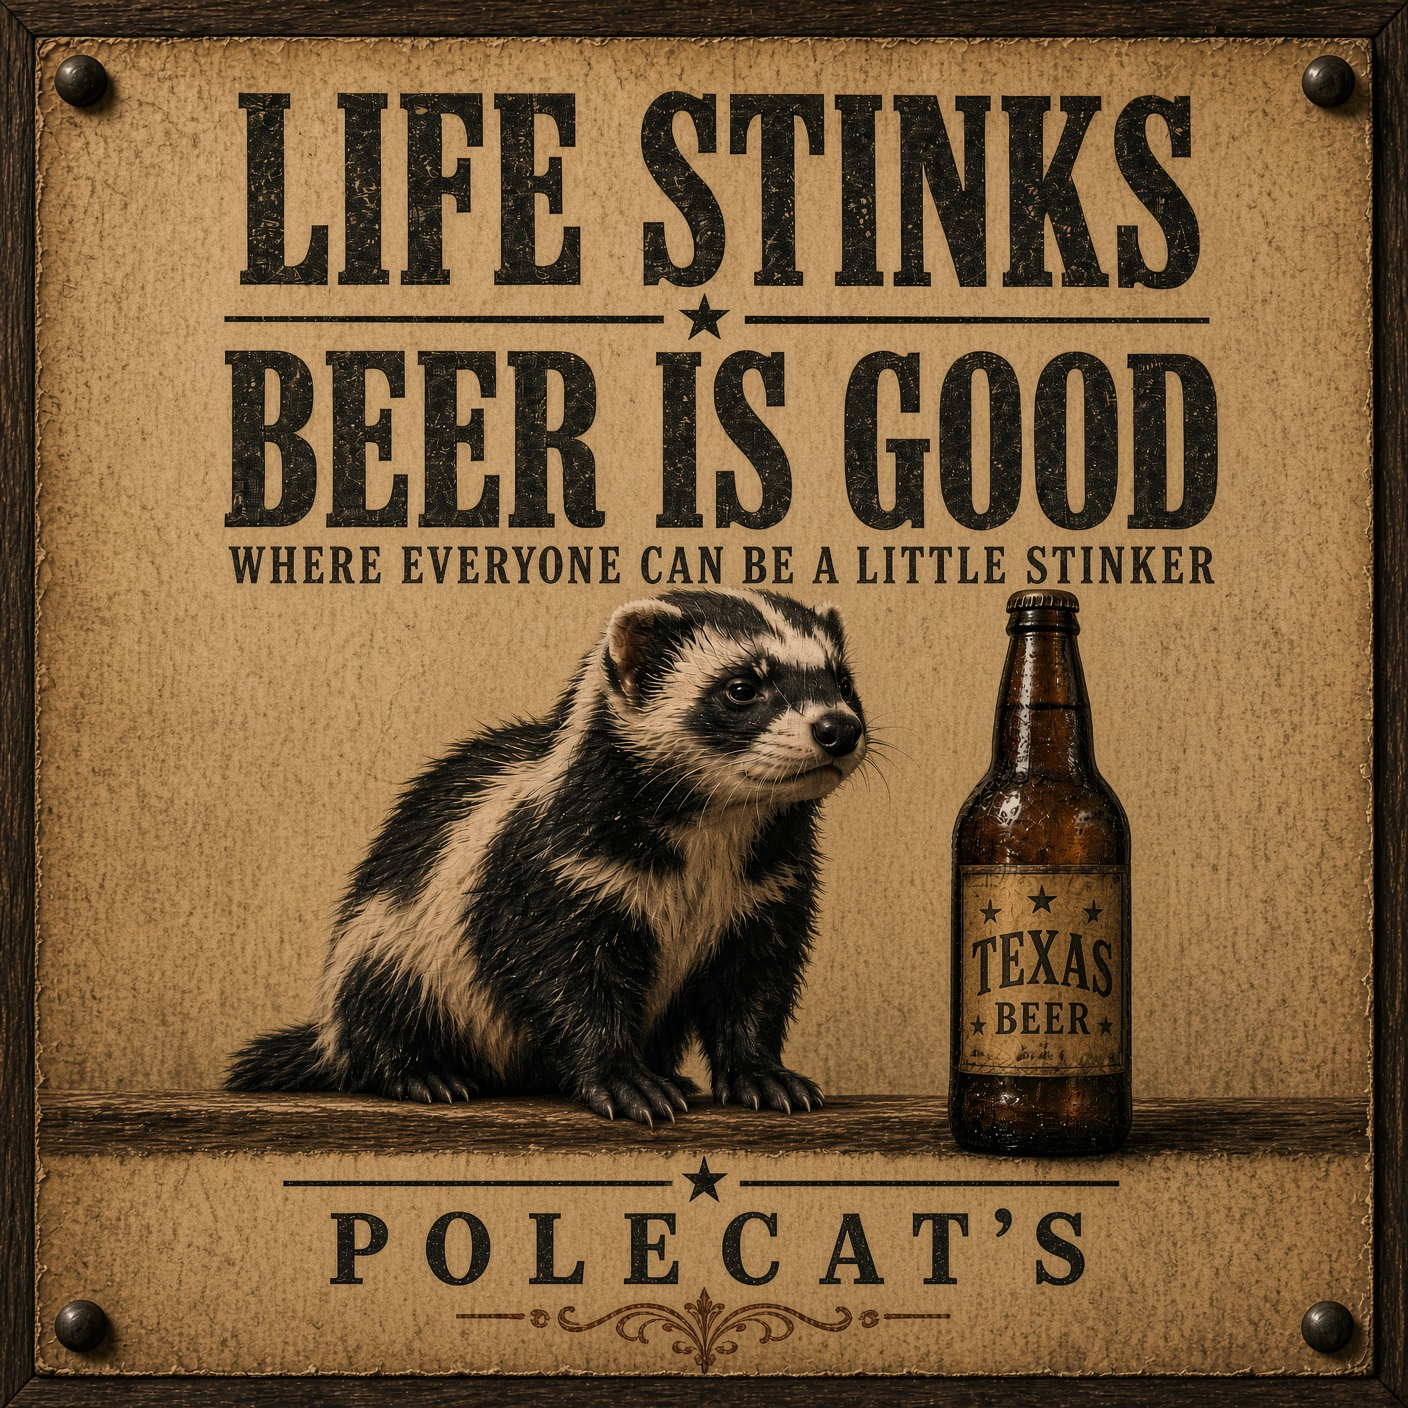
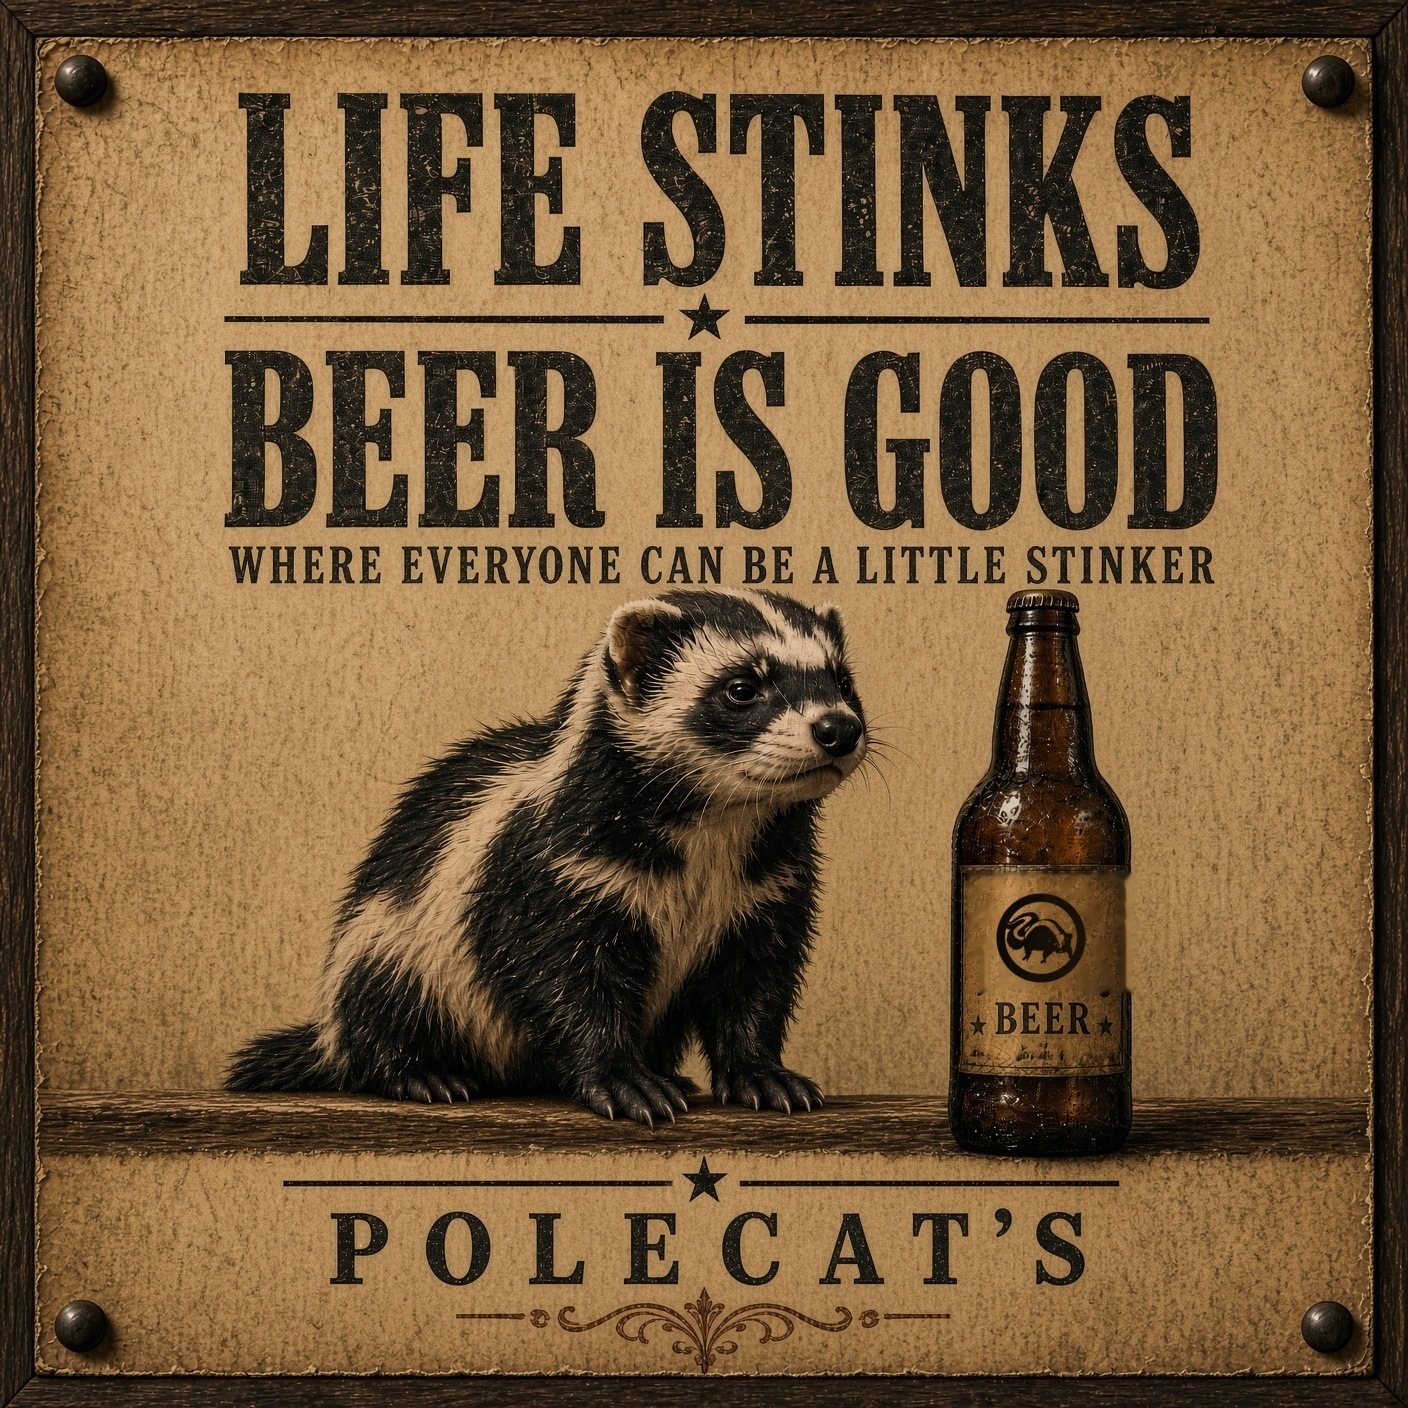
Hang the clear wide sign and the square tin.

Changed region(s): [[0.6875, 0.625, 0.8125, 0.7188]]

diff --git a/index.html b/index.html
@@ -105,7 +105,12 @@
       object-fit: contain;
       box-shadow: 0 18px 36px rgba(0,0,0,.45);
     }
-    .hero-wide { display: block; }
+    .hero-wide {
+      display: block;
+      box-shadow: none;
+      background: transparent;
+      filter: drop-shadow(0 16px 14px rgba(0,0,0,.42));
+    }
     .hero-square { display: none; }
     .wall { width: min(1100px, calc(100% - 32px)); margin: 0 auto; padding: 8px 0 88px; }
     .plate {
@@ -290,8 +295,8 @@
   </header>
 
   <section class="fold" id="top">
-    <img class="hero-sign hero-wide" src="polecats-hero-wide.jpg?v=4" alt="Polecat’s. Life stinks. Beer is good. Where everyone can be a little stinker." />
-    <img class="hero-sign hero-square" src="polecats-tin-square.jpg?v=5" alt="Polecat’s. Life stinks. Beer is good. Where everyone can be a little stinker." />
+    <img class="hero-sign hero-wide" src="polecats-hero-wide.webp?v=6" alt="Polecat’s. Life stinks. Beer is good. Where everyone can be a little stinker." />
+    <img class="hero-sign hero-square" src="polecats-tin-square.jpg?v=6" alt="Polecat’s. Life stinks. Beer is good. Where everyone can be a little stinker." />
     <div class="btn-row">
       <a class="btn btn-hot" href="tel:8303790564">Call (830) 379-0564</a>
       <a class="btn" href="#map">Map</a>
